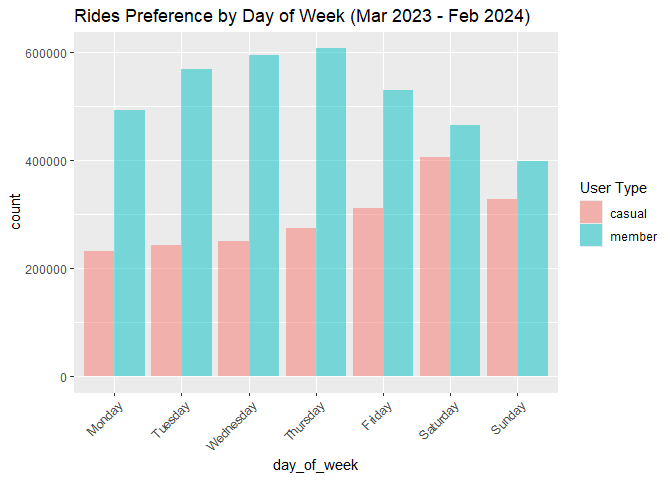
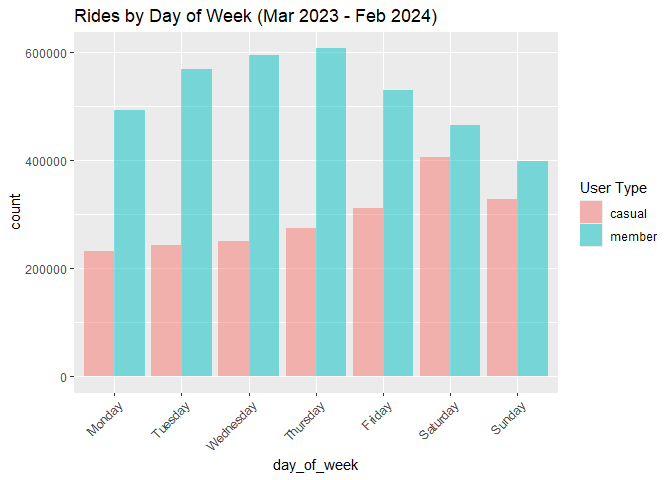
more documentation added

Changed region(s): [[0.1875, 0.0, 0.7812, 0.0625]]

diff --git a/BikeShareAnalysis.md b/BikeShareAnalysis.md
@@ -21,28 +21,32 @@ The objective is to create an effective marketing strategy that
 transitions casual riders into committed annual members, all underpinned
 by compelling data insights and visualizations.
 
-# Ask
+# Objective
 
-The analysis need to answer the following question. - How do annual
-members and casual riders use Cyclistic bikes differently?
+The objective of the analysis is to answer the following question.
 
-# Prepare
+- How do annual members and casual riders use Cyclistic bikes
+  differently?
+
+# Prepare data for Analysis
 
 Historic data required for the analysis were to be downloaded from
 bike-share company dataset named Divvy.  
-Following steps were taken to prepare the data for exploration. 1.
-Download last 12 months of rides data from
-[Divvy.](https://divvy-tripdata.s3.amazonaws.com/index.html) 2. The
-compressed files for each month were extracted into the project folder.
-3. The CSV files were then examined to understand the size of the data
-as well as available variables for analysis.
+Following steps were taken to prepare the data for exploration.
+
+1.  Download last 12 months of rides data from
+    [Divvy.](https://divvy-tripdata.s3.amazonaws.com/index.html)  
+2.  The compressed files for each month were extracted into the project
+    folder.  
+3.  The CSV files were then examined to understand the size of the data
+    as well as available variables for analysis.  
 
 CSV files consist of 13 columns and thousands of observations in each
 file. When combined it would be over 5 million observations. Therefore,
 using R would be ideal to load each csv to dataframes and then combine
 all dataframes to a single dataframe.
 
-# Process
+# Process the data
 
 ## Load Packages
 
@@ -832,7 +836,7 @@ Now, the main dataframe *PositiveNoDupMergedData* is ready to be
 analyzed after removing duplicates, parsing, filtering, and transforming
 the raw dataframe.
 
-# Analyze
+# Analysis
 
 Since the main dataframe is large, a smaller chunk of the dataframe can
 be created using the *slice* function. The smaller dataframe can be used
@@ -867,6 +871,7 @@ ggplot(user_percentage_summary, aes(x = "", y = count, fill = member_casual)) +
 ```
 
 ![](BikeShareAnalysis_files/figure-gfm/unnamed-chunk-13-1.png)<!-- -->
+
 It is clear that the highest number of rides were taken by user type
 members with a count of 3,658,586 rides. The number of casual rides were
 2,047,205.
@@ -887,6 +892,7 @@ ggplot(PositiveNoDupMergedData, aes(month, fill=member_casual)) +
 ```
 
 ![](BikeShareAnalysis_files/figure-gfm/unnamed-chunk-14-1.png)<!-- -->
+
 It can be seen that the highest rides taken by the members was in August
 and the highest number of rides taken by casual user type was in July,
 From the above plot it can also be seen that there is a relation between
@@ -897,7 +903,7 @@ seasons as everyone celebrates holidays with Christmas and New year. It
 can also be due to the weather conditions during these months. To
 further explore the conditions, weather data can be analyzed in the
 particular areas of rides taken (But weather data is not included in the
-dataset).
+dataset). This is one of the important points of the analysis.
 
 ## Analysis by day of the week
 
@@ -910,12 +916,13 @@ PositiveNoDupMergedData$day_of_week <- factor(PositiveNoDupMergedData$day_of_wee
 
 ggplot(PositiveNoDupMergedData, aes(day_of_week, fill=member_casual)) +
   geom_bar(position="dodge", alpha=0.5) + 
-  labs(title = "Rides Preference by Day of Week (Mar 2023 - Feb 2024)") +
+  labs(title = "Rides by Day of Week (Mar 2023 - Feb 2024)") +
   scale_fill_discrete(name = "User Type") +
   theme(axis.text.x = element_text(angle = 45, hjust = 1))
 ```
 
 ![](BikeShareAnalysis_files/figure-gfm/unnamed-chunk-15-1.png)<!-- -->
+
 It is evident that throughout all days of the week, members have the
 highest number of rides than casual riders. But looking at the trend of
 ride counts, rides taken by members are higher during weekdays compared
@@ -946,7 +953,17 @@ ggplot(count_by_hours_on_weekdays, aes(x = started_hour, y = count, group = memb
 
 ![](BikeShareAnalysis_files/figure-gfm/unnamed-chunk-16-1.png)<!-- -->
 
+These charts shows a common pattern in all weekdays for both user types.
+The charts consist of two spikes. These spikes occur between 5AM to 9AM
+and between 3PM to 6PM. There is clearly a correlation between time of
+day and bike rides. This could be due to office hours, where people use
+bikes to travel to and from work as well as to do some workout before
+and right after work. This is one of the important points of the
+analysis.
+
 ### Bike type preference on weekdays
+
+Bike type preference can be analyzed as follows.
 
 ``` r
 bike_preference_weekdays <- PositiveNoDupMergedData %>%
@@ -967,7 +984,13 @@ ggplot(bike_preference_weekdays, aes(x = started_hour, y = count, group = rideab
 
 ![](BikeShareAnalysis_files/figure-gfm/unnamed-chunk-17-1.png)<!-- -->
 
+The charts show that there is almost equal number of usage between
+classic bikes and electric bikes.
+
 ### Ride duration on weekdays
+
+The average ride duration time for each weekday can be analyzed as
+follows.
 
 ``` r
 ride_duration_weekdays <- PositiveNoDupMergedData %>%
@@ -980,7 +1003,7 @@ ggplot(ride_duration_weekdays, aes(day_of_week, avg_ride_duration, fill = member
   geom_bar(position = "dodge", alpha = 0.5, stat = "identity") + 
   labs(title = "Average ride duration by Day on Weekdays (Mar 2023 - Feb 2024)",
        x = "Day of the Week",
-       y = "Average Ride Duration") +
+       y = "Average Ride Duration (Minutes)") +
   scale_fill_manual(values = c("casual" = "red", "member" = "blue"), name = "User Type") +
   theme_minimal() +
   theme(axis.text.x = element_text(angle = 45, hjust = 1))
@@ -988,9 +1011,13 @@ ggplot(ride_duration_weekdays, aes(day_of_week, avg_ride_duration, fill = member
 
 ![](BikeShareAnalysis_files/figure-gfm/unnamed-chunk-18-1.png)<!-- -->
 
+The chart shows that ride duration for casual members are significantly
+higher than members throughout the weekdays. This is one of the
+important points of the analysis.
+
 ## Analysis of rides on weekends
 
-### Hour of day on weekends
+Performing the same analysis for weekends. \### Hour of day on weekends
 
 Getting the number of rides by hours on weekends
 
@@ -1011,6 +1038,11 @@ ggplot(count_by_hours_on_weekends, aes(x = started_hour, y = count, group = memb
 ```
 
 ![](BikeShareAnalysis_files/figure-gfm/unnamed-chunk-19-1.png)<!-- -->
+
+Bike usage by hour on weekends also shows a similar pattern for both
+user types But on weekends it shows a single spike of usage between
+hours 12 Noon to 4PM. This is one of the important points of the
+analysis.
 
 ### Bike type preference on weekends
 
@@ -1033,6 +1065,9 @@ ggplot(bike_preference_weekend, aes(x = started_hour, y = count, group = rideabl
 
 ![](BikeShareAnalysis_files/figure-gfm/unnamed-chunk-20-1.png)<!-- -->
 
+As same as the usage on weekdays, the chart shows that there is almost
+equal number of usage between classic bikes and electric bikes.
+
 ### Ride duration on weekends
 
 ``` r
@@ -1046,7 +1081,7 @@ ggplot(ride_duration_weekend, aes(day_of_week, avg_ride_duration, fill = member_
   geom_bar(position = "dodge", alpha = 0.5, stat = "identity") + 
   labs(title = "Average ride duration by Day on weekends (Mar 2023 - Feb 2024)",
        x = "Day of the Week",
-       y = "Average Ride Duration") +
+       y = "Average Ride Duration (Minutes)") +
   scale_fill_manual(values = c("casual" = "red", "member" = "blue"), name = "User Type") +
   theme_minimal() +
   theme(axis.text.x = element_text(angle = 45, hjust = 1))
@@ -1054,6 +1089,13 @@ ggplot(ride_duration_weekend, aes(day_of_week, avg_ride_duration, fill = member_
 
 ![](BikeShareAnalysis_files/figure-gfm/unnamed-chunk-21-1.png)<!-- -->
 
-# Share
+Similar to the ride duration by user types on weekdays, weekend chart
+also shows that ride duration for casual members are significantly
+higher than members. This is also one of the important points of the
+analysis.
 
-# Act
+# Recommendations
+
+1.  recommendation 1  
+2.  recommendation 2  
+3.  recommendation 3  
